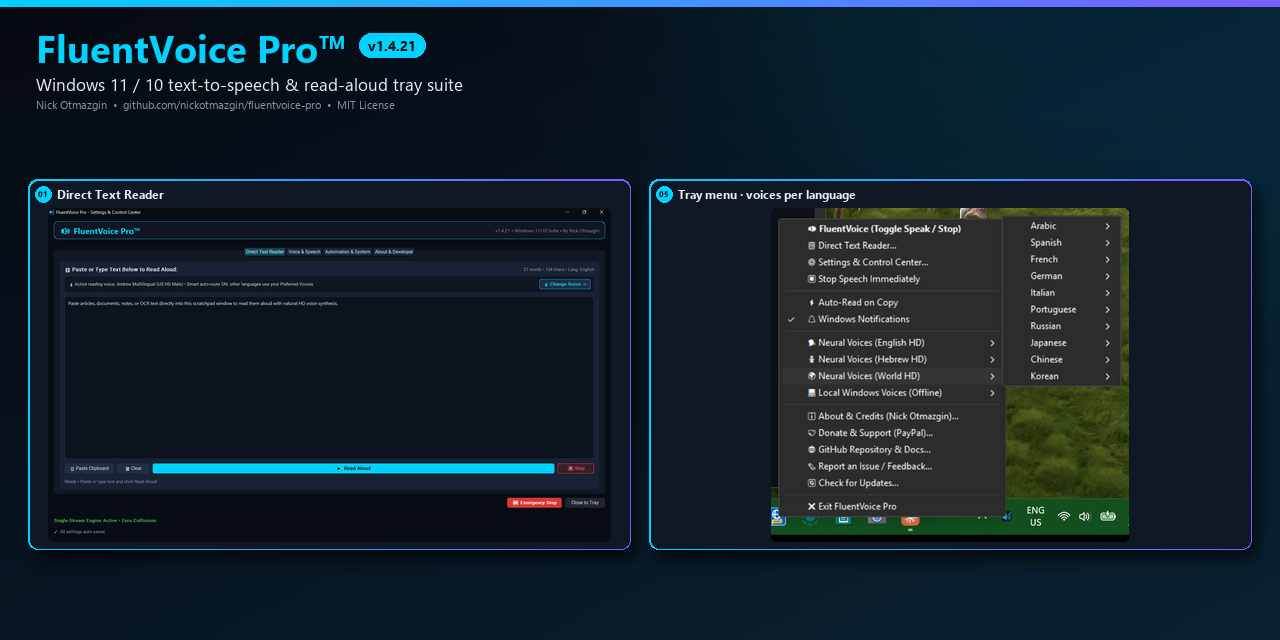
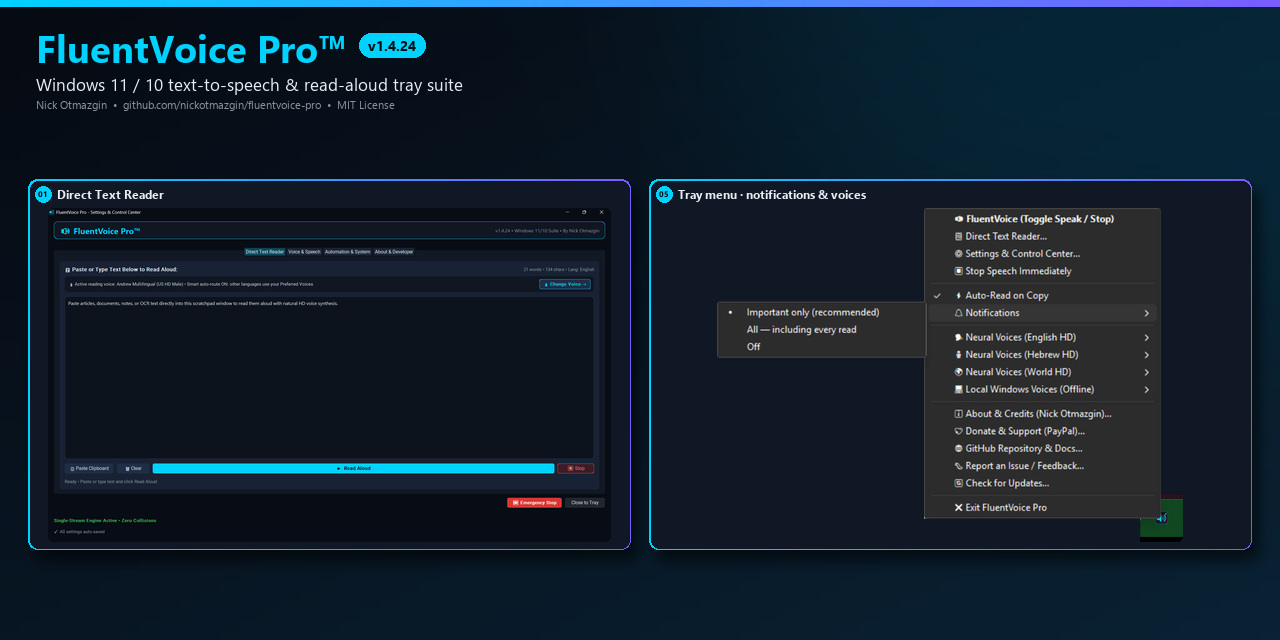
docs: v1.4.24 screenshots, collage and social preview
- 01-08 recaptured on v1.4.24 after an Explorer + tray restart (09 portable prompt is
  unchanged since v1.4.21 and carried over).
- 03 shows the new Notifications card; 05 the tray menu with the Notifications submenu,
  cut out so no wallpaper or other apps show; 06/07 tightly cropped desktop / tray icon.
- capture_settings.py: never show the Windows user name (real home -> %USERPROFILE%).
- build_collage.py keeps a capture's transparency; updated 05 label and highlights.

Changed region(s): [[0.5625, 0.2812, 0.9375, 0.8438]]

diff --git a/scripts/build_collage.py b/scripts/build_collage.py
@@ -12,7 +12,7 @@ import re
 import shutil
 from pathlib import Path
 
-from PIL import Image, ImageDraw, ImageFilter, ImageFont
+from PIL import Image, ImageChops, ImageDraw, ImageFilter, ImageFont
 
 ROOT = Path(__file__).resolve().parents[1]
 VERSION = re.search(r'__version__\s*=\s*"([^"]+)"', (ROOT / "fluentvoice" / "__init__.py").read_text()).group(1)
@@ -20,7 +20,7 @@ SRC = ROOT / "screenshots" / f"v{VERSION}"
 
 TITLE = "FluentVoice Pro™"
 SUBTITLE = "Windows 11 / 10 text-to-speech & read-aloud tray suite"
-HIGHLIGHTS = "60 HD voices in 12 languages  •  Smart auto-route  •  Streaming Direct Text Reader  •  Start with Windows  •  SHA-256 verified updates"
+HIGHLIGHTS = "60 HD voices in 12 languages  •  Every offline Windows voice  •  Smart auto-route  •  Direct Text Reader  •  SHA-256 verified updates"
 FOOTER = "Nick Otmazgin  •  github.com/nickotmazgin/fluentvoice-pro  •  MIT License"
 
 PANELS = [  # (file, number, label) in reading order
@@ -28,7 +28,7 @@ PANELS = [  # (file, number, label) in reading order
     ("02-settings-voice.png", "02", "Voice & Speech"),
     ("03-settings-automation.png", "03", "Automation & System"),
     ("04-settings-about-updates.png", "04", "About · Updates & Factory Reset"),
-    ("05-tray-menu.png", "05", "Tray menu · voices per language"),
+    ("05-tray-menu.png", "05", "Tray menu · notifications & voices"),
     ("06-desktop-icon-live.png", "06", "Desktop icon"),
     ("07-tray-icon-closeup.png", "07", "Tray icon near the clock"),
     ("08-settings-automation-updates.png", "08", "Automation · Startup & Shortcuts"),
@@ -80,6 +80,8 @@ def accent_bar(img: Image.Image, h: int) -> None:
 def rounded(im: Image.Image, r: int) -> Image.Image:
     mask = Image.new("L", im.size, 0)
     ImageDraw.Draw(mask).rounded_rectangle((0, 0, im.width - 1, im.height - 1), r, fill=255)
+    if im.mode == "RGBA":  # keep a capture's own transparency (e.g. the tray menu cut-out)
+        mask = ImageChops.multiply(mask, im.getchannel("A"))
     out = Image.new("RGBA", im.size)
     out.paste(im.convert("RGB"), (0, 0), mask)
     return out

diff --git a/scripts/capture_settings.py b/scripts/capture_settings.py
@@ -25,6 +25,7 @@ from pathlib import Path
 ROOT = Path(__file__).resolve().parents[1]
 VERSION = re.search(r'__version__\s*=\s*"([^"]+)"', (ROOT / "fluentvoice" / "__init__.py").read_text()).group(1)
 OUT = ROOT / "screenshots" / f"v{VERSION}"
+REAL_HOME = str(Path.home())  # read before the temporary profile replaces HOME / USERPROFILE
 TABS = [
     ("01-settings-reader.png", "Direct Text Reader"),
     ("02-settings-voice.png", "Voice & Speech"),
@@ -57,7 +58,20 @@ def capture(out: Path, tab: str, scroll_bottom: bool = False) -> None:
                 cv.yview_moveto(1.0)
             stack.extend(c.winfo_children())
 
+    def hide_real_home():
+        """Public screenshots never show the Windows user name: real home -> %USERPROFILE%."""
+        import customtkinter as ctk
+        stack = [w]
+        while stack:
+            c = stack.pop()
+            stack.extend(c.winfo_children())
+            if isinstance(c, ctk.CTkLabel) and REAL_HOME.lower() in str(c.cget("text")).lower():
+                text = str(c.cget("text"))
+                i = text.lower().index(REAL_HOME.lower())
+                c.configure(text=text[:i] + "%USERPROFILE%" + text[i + len(REAL_HOME):])
+
     def shot():
+        hide_real_home()
         w.lift()
         w.update()
         hwnd = ctypes.windll.user32.GetParent(w.winfo_id())

diff --git a/README.md b/README.md
@@ -23,56 +23,56 @@ Equipped with a **Windows 11 Fluent UI Settings & Control Center**, global singl
 
 ## Screenshots
 
-*FluentVoice Pro **v1.4.21** — click any image to view it full size.*
+*FluentVoice Pro **v1.4.24** — click any image to view it full size.*
 
-[![FluentVoice Pro v1.4.21 collage](screenshots/v1.4.21/collage-v1.4.21.jpg)](screenshots/v1.4.21/collage-v1.4.21.jpg)
+[![FluentVoice Pro v1.4.24 collage](screenshots/v1.4.24/collage-v1.4.24.jpg)](screenshots/v1.4.24/collage-v1.4.24.jpg)
 
 <table>
   <tr>
     <td align="center">
-      <a href="screenshots/v1.4.21/01-settings-reader.png"><img src="screenshots/v1.4.21/01-settings-reader.png" width="260" alt="Direct Text Reader"></a><br>
+      <a href="screenshots/v1.4.24/01-settings-reader.png"><img src="screenshots/v1.4.24/01-settings-reader.png" width="260" alt="Direct Text Reader"></a><br>
       <b>01</b> — Direct Text Reader
     </td>
     <td align="center">
-      <a href="screenshots/v1.4.21/02-settings-voice.png"><img src="screenshots/v1.4.21/02-settings-voice.png" width="260" alt="Voice &amp; Speech"></a><br>
+      <a href="screenshots/v1.4.24/02-settings-voice.png"><img src="screenshots/v1.4.24/02-settings-voice.png" width="260" alt="Voice &amp; Speech"></a><br>
       <b>02</b> — Voice &amp; Speech
     </td>
     <td align="center">
-      <a href="screenshots/v1.4.21/03-settings-automation.png"><img src="screenshots/v1.4.21/03-settings-automation.png" width="260" alt="Automation &amp; System"></a><br>
+      <a href="screenshots/v1.4.24/03-settings-automation.png"><img src="screenshots/v1.4.24/03-settings-automation.png" width="260" alt="Automation &amp; System"></a><br>
       <b>03</b> — Automation &amp; System
     </td>
   </tr>
   <tr>
     <td align="center">
-      <a href="screenshots/v1.4.21/04-settings-about-updates.png"><img src="screenshots/v1.4.21/04-settings-about-updates.png" width="260" alt="About, Updates &amp; Factory Reset"></a><br>
+      <a href="screenshots/v1.4.24/04-settings-about-updates.png"><img src="screenshots/v1.4.24/04-settings-about-updates.png" width="260" alt="About, Updates &amp; Factory Reset"></a><br>
       <b>04</b> — About · Updates &amp; Factory Reset
     </td>
     <td align="center">
-      <a href="screenshots/v1.4.21/05-tray-menu.png"><img src="screenshots/v1.4.21/05-tray-menu.png" width="260" alt="Tray right-click menu"></a><br>
-      <b>05</b> — Tray menu · voices per language
+      <a href="screenshots/v1.4.24/05-tray-menu.png"><img src="screenshots/v1.4.24/05-tray-menu.png" width="260" alt="Tray right-click menu"></a><br>
+      <b>05</b> — Tray menu · notifications &amp; voices
     </td>
     <td align="center">
-      <a href="screenshots/v1.4.21/06-desktop-icon-live.png"><img src="screenshots/v1.4.21/06-desktop-icon-live.png" width="260" alt="Desktop icon"></a><br>
+      <a href="screenshots/v1.4.24/06-desktop-icon-live.png"><img src="screenshots/v1.4.24/06-desktop-icon-live.png" width="260" alt="Desktop icon"></a><br>
       <b>06</b> — Desktop icon
     </td>
   </tr>
   <tr>
     <td align="center">
-      <a href="screenshots/v1.4.21/07-tray-icon-closeup.png"><img src="screenshots/v1.4.21/07-tray-icon-closeup.png" width="260" alt="Tray icon near the clock"></a><br>
+      <a href="screenshots/v1.4.24/07-tray-icon-closeup.png"><img src="screenshots/v1.4.24/07-tray-icon-closeup.png" width="260" alt="Tray icon near the clock"></a><br>
       <b>07</b> — Tray icon near the clock
     </td>
     <td align="center">
-      <a href="screenshots/v1.4.21/08-settings-automation-updates.png"><img src="screenshots/v1.4.21/08-settings-automation-updates.png" width="260" alt="Automation: Startup &amp; Shortcuts"></a><br>
+      <a href="screenshots/v1.4.24/08-settings-automation-updates.png"><img src="screenshots/v1.4.24/08-settings-automation-updates.png" width="260" alt="Automation: Startup &amp; Shortcuts"></a><br>
       <b>08</b> — Automation · Startup &amp; Shortcuts
     </td>
     <td align="center">
-      <a href="screenshots/v1.4.21/09-portable-first-launch.png"><img src="screenshots/v1.4.21/09-portable-first-launch.png" width="260" alt="Portable first launch prompt"></a><br>
+      <a href="screenshots/v1.4.24/09-portable-first-launch.png"><img src="screenshots/v1.4.24/09-portable-first-launch.png" width="260" alt="Portable first launch prompt"></a><br>
       <b>09</b> — Portable first launch
     </td>
   </tr>
 </table>
 
-Full combined image (download): [collage-v1.4.21.jpg](screenshots/v1.4.21/collage-v1.4.21.jpg)
+Full combined image (download): [collage-v1.4.24.jpg](screenshots/v1.4.24/collage-v1.4.24.jpg)
 
 ---
 

diff --git a/docs/SCREENSHOTS.md b/docs/SCREENSHOTS.md
@@ -1,4 +1,4 @@
-# Screenshots (v1.4.21)
+# Screenshots (v1.4.24)
 
 HD captures for the README, the GitHub social preview, and social posts.
 
@@ -6,18 +6,18 @@ HD captures for the README, the GitHub social preview, and social posts.
 
 | File | Purpose |
 |------|---------|
-| `screenshots/v1.4.21/collage-v1.4.21.jpg` | README hero collage (3840 wide, 3×3: 01–09) |
-| `screenshots/v1.4.21/social-preview-1280x640.jpg` | GitHub OG / link preview (also `.github/social-preview.{jpg,png}`) |
-| `screenshots/v1.4.21/social-collage-1080.jpg` | Square social post |
-| `screenshots/v1.4.21/01-settings-reader.png` | 01 Direct Text Reader |
-| `screenshots/v1.4.21/02-settings-voice.png` | 02 Voice & Speech |
-| `screenshots/v1.4.21/03-settings-automation.png` | 03 Automation & System (Auto-Read, language, hotkey) |
-| `screenshots/v1.4.21/04-settings-about-updates.png` | 04 About · Updates & Factory Reset |
-| `screenshots/v1.4.21/05-tray-menu.png` | 05 Tray right-click menu |
-| `screenshots/v1.4.21/06-desktop-icon-live.png` | 06 Desktop icon |
-| `screenshots/v1.4.21/07-tray-icon-closeup.png` | 07 Tray icon near the clock |
-| `screenshots/v1.4.21/08-settings-automation-updates.png` | 08 Automation · Startup & Shortcuts, tray daemon, Updates |
-| `screenshots/v1.4.21/09-portable-first-launch.png` | 09 Portable EXE first-launch prompt (Start with Windows?) |
+| `screenshots/v1.4.24/collage-v1.4.24.jpg` | README hero collage (3840 wide, 3×3: 01–09) |
+| `screenshots/v1.4.24/social-preview-1280x640.jpg` | GitHub OG / link preview (also `.github/social-preview.{jpg,png}`) |
+| `screenshots/v1.4.24/social-collage-1080.jpg` | Square social post |
+| `screenshots/v1.4.24/01-settings-reader.png` | 01 Direct Text Reader |
+| `screenshots/v1.4.24/02-settings-voice.png` | 02 Voice & Speech |
+| `screenshots/v1.4.24/03-settings-automation.png` | 03 Automation & System (Auto-Read, language, hotkey) |
+| `screenshots/v1.4.24/04-settings-about-updates.png` | 04 About · Updates & Factory Reset |
+| `screenshots/v1.4.24/05-tray-menu.png` | 05 Tray right-click menu (🔔 Notifications submenu open) |
+| `screenshots/v1.4.24/06-desktop-icon-live.png` | 06 Desktop icon |
+| `screenshots/v1.4.24/07-tray-icon-closeup.png` | 07 Tray icon near the clock |
+| `screenshots/v1.4.24/08-settings-automation-updates.png` | 08 Automation · Startup & Shortcuts, tray daemon, Updates |
+| `screenshots/v1.4.24/09-portable-first-launch.png` | 09 Portable EXE first-launch prompt (Start with Windows?) |
 
 ## Recapture + rebuild
 
